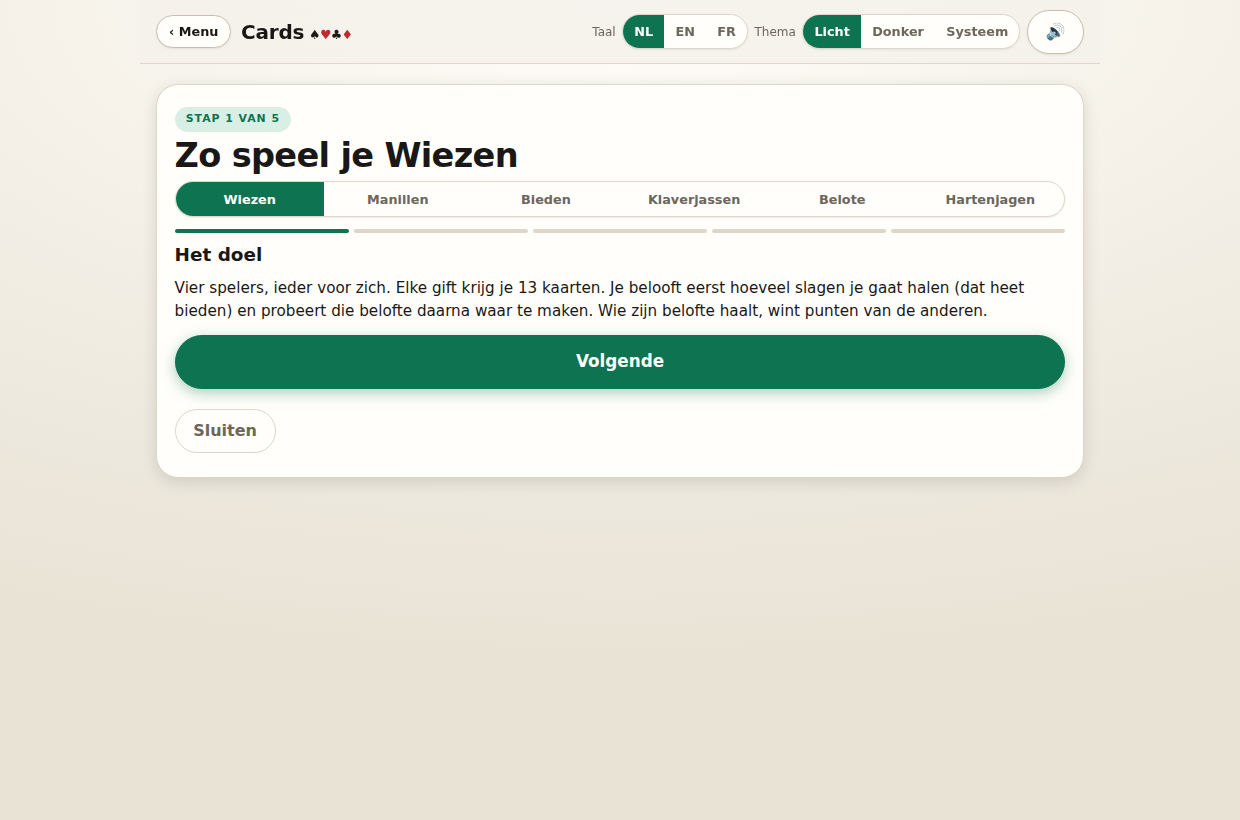
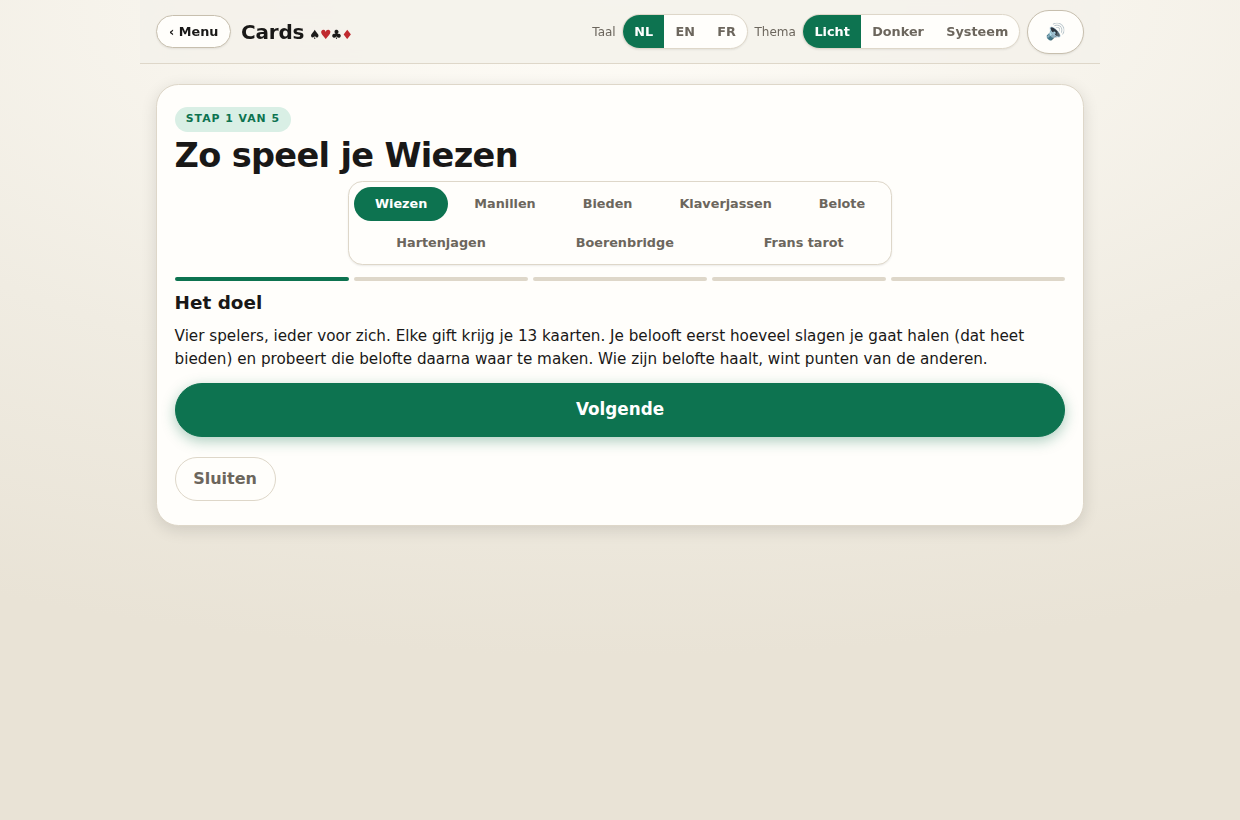
fix(cards): alle acht spellen in de starterswizard, uit één catalogus
Boerenbridge en tarot stonden niet in de spelkiezer van de wizard, dus je
kon die twee nergens leren. Twee oorzaken, allebei aangepakt.

1. De spellen werden op drie plaatsen apart opgesomd: de tegels op het
   startscherm, de lijst in de wizard, en de controle op het opgeslagen
   spel. Bij het toevoegen van boerenbridge en tarot bleef de wizardlijst
   achter. Er is nu één catalogus (src/games.ts) waar alle drie uit putten,
   en games.test.ts bewaakt dat elk spel een wizard, een gidshoofdstuk en
   teksten in nl/en/fr heeft.

2. Ook mét de volledige lijst paste die niet: het was één rij die niet
   afbrak, dus alles na het vijfde spel viel buiten beeld. De kiezer breekt
   nu af over meerdere regels (.seg.wrap) in plaats van af te snijden.

Browser-smoke op gsm-formaat: alle acht knoppen staan binnen het scherm en
elke knop opent de juiste wizard.

Claude-Session: https://claude.ai/code/session_01MgRtQzS8fjuh9rrNQPLfzZ

Changed region(s): [[0.1226, 0.2134, 0.8887, 0.6402]]

diff --git a/cards/src/main.ts b/cards/src/main.ts
@@ -26,6 +26,7 @@ import {
   type BotLevel,
 } from './bots';
 import * as store from './store';
+import { GAMES, isGameId, type GameId } from './games';
 import * as sbw from './scorebord-wiezen';
 import { strength, teamOf, type ManilleGift } from './engine/manille';
 import type { ManilleSession } from './engine/manille';
@@ -194,15 +195,6 @@ let generation = 0;
 const GAME_KEY = 'cards.game';
 const WIEZEN_OPTS_KEY = 'cards.wiezenOptions';
 const MANILLE_OPTS_KEY = 'cards.manilleOptions';
-type GameId =
-  | 'wiezen'
-  | 'manille'
-  | 'bieden'
-  | 'klaverjassen'
-  | 'belote'
-  | 'hartenjagen'
-  | 'boerenbridge'
-  | 'tarot';
 let game: GameId = 'wiezen';
 let hjSession: HartenSession | null = null;
 let hjPersisted: store.PersistedHarten | null = null;
@@ -804,16 +796,9 @@ function startScreen(): HTMLElement {
   const tiles = el('div', 'game-tiles');
   tiles.setAttribute('role', 'group');
   tiles.setAttribute('aria-label', t('game.picker'));
-  tiles.append(
-    gameTile('wiezen', '\u2660', 'game.wiezen', 'tile.wiezen'),
-    gameTile('manille', '\u2665', 'game.manillen', 'tile.manillen'),
-    gameTile('bieden', '\u2663', 'game.bieden', 'tile.bieden'),
-    gameTile('klaverjassen', '\u2666', 'game.klaverjassen', 'tile.klaverjassen'),
-    gameTile('belote', '\u{1F1EB}\u{1F1F7}', 'game.belote', 'tile.belote'),
-    gameTile('hartenjagen', '\u{1F494}', 'game.hartenjagen', 'tile.hartenjagen'),
-    gameTile('boerenbridge', '\u{1F3AF}', 'game.boerenbridge', 'tile.boerenbridge'),
-    gameTile('tarot', '\u{1F52E}', 'game.tarot', 'tile.tarot'),
-  );
+  for (const g of GAMES) {
+    tiles.append(gameTile(g.id, g.icon, g.nameKey as MessageKey, g.tileKey as MessageKey));
+  }
 
   // Tarot is het enige spel met een keuze in het aantal spelers (§1).
   if (game === 'tarot') main.append(tarotPlayerPicker());
@@ -1249,20 +1234,14 @@ function wizardScreen(): HTMLElement {
 
   // Je moest hiervoor eerst terug naar het startscherm om een ander spel te
   // leren; nu wissel je gewoon hier van spel.
-  const games: [GameId, MessageKey][] = [
-    ['wiezen', 'game.wiezen'],
-    ['manille', 'game.manillen'],
-    ['bieden', 'game.bieden'],
-    ['klaverjassen', 'game.klaverjassen'],
-    ['belote', 'game.belote'],
-    ['hartenjagen', 'game.hartenjagen'],
-  ];
-  const picker = el('div', 'seg wide');
+
+  const picker = el('div', 'seg wrap');
   picker.setAttribute('role', 'group');
   picker.setAttribute('aria-label', t('wizard.pickGame'));
-  for (const [id, key] of games) {
+  for (const g of GAMES) {
+    const id = g.id;
     picker.append(
-      segButton(t(key), game === id, () => {
+      segButton(t(g.nameKey as MessageKey), game === id, () => {
         game = id;
         try {
           localStorage.setItem(GAME_KEY, id);
@@ -4908,18 +4887,7 @@ try {
 }
 try {
   const storedGame = localStorage.getItem(GAME_KEY);
-  if (
-    storedGame === 'manille' ||
-    storedGame === 'wiezen' ||
-    storedGame === 'bieden' ||
-    storedGame === 'klaverjassen' ||
-    storedGame === 'belote' ||
-    storedGame === 'hartenjagen' ||
-    storedGame === 'boerenbridge' ||
-    storedGame === 'tarot'
-  ) {
-    game = storedGame;
-  }
+  if (isGameId(storedGame)) game = storedGame;
 } catch {
   /* ignore */
 }

diff --git a/cards/src/games.test.ts b/cards/src/games.test.ts
@@ -1,0 +1,81 @@
+import { describe, expect, it } from 'vitest';
+import { GAMES, GAME_IDS, isGameId, type GameId } from './games';
+import { WIZARD_STEPS } from './coach';
+import { chapterForGame, getChapter } from './guide';
+import nl from './i18n/locales/nl.json';
+import en from './i18n/locales/en.json';
+import fr from './i18n/locales/fr.json';
+
+/**
+ * Deze test bestaat om één concrete fout te vangen: boerenbridge en tarot waren
+ * wél te spelen maar stonden niet in de spelkiezer van de starterswizard, omdat
+ * die lijst apart werd bijgehouden. Alles hieronder hangt nu aan GAMES.
+ */
+describe('spelcatalogus', () => {
+  it('heeft geen dubbels', () => {
+    expect(new Set(GAME_IDS).size).toBe(GAME_IDS.length);
+  });
+
+  it('herkent alleen echte spel-ids', () => {
+    for (const id of GAME_IDS) expect(isGameId(id)).toBe(true);
+    expect(isGameId('poker')).toBe(false);
+    expect(isGameId(null)).toBe(false);
+  });
+
+  it('elk spel heeft een starterswizard', () => {
+    for (const id of GAME_IDS) {
+      expect(WIZARD_STEPS[id], `wizard ontbreekt voor ${id}`).toBeGreaterThan(0);
+    }
+    // En omgekeerd: geen wizard voor een spel dat niet in de catalogus staat.
+    expect(Object.keys(WIZARD_STEPS).sort()).toEqual([...GAME_IDS].sort());
+  });
+
+  it('elk spel wijst naar een bestaand gidshoofdstuk', () => {
+    for (const id of GAME_IDS) {
+      const chapter = chapterForGame(id, 'vlaams-standaard');
+      expect(getChapter(chapter), `gidshoofdstuk ontbreekt voor ${id}`).toBeDefined();
+    }
+    // Wiezen splitst in twee hoofdstukken, naargelang de gekozen ruleset.
+    expect(chapterForGame('wiezen', 'kleurenwiezen')).toBe('kleurenwiezen');
+    expect(chapterForGame('wiezen', 'vlaams-standaard')).toBe('gewoon-wiezen');
+  });
+
+  it('elk spel heeft een naam, een tegeltekst en wizardstappen in de drie talen', () => {
+    const bundles: [string, Record<string, string>][] = [
+      ['nl', nl as Record<string, string>],
+      ['en', en as Record<string, string>],
+      ['fr', fr as Record<string, string>],
+    ];
+    for (const game of GAMES) {
+      for (const [taal, bundle] of bundles) {
+        expect(bundle[game.nameKey], `${game.nameKey} ontbreekt in ${taal}`).toBeTruthy();
+        expect(bundle[game.tileKey], `${game.tileKey} ontbreekt in ${taal}`).toBeTruthy();
+        for (let n = 1; n <= WIZARD_STEPS[game.id]; n++) {
+          expect(
+            bundle[`wizard.${game.id}.${n}.title`],
+            `wizard.${game.id}.${n}.title ontbreekt in ${taal}`,
+          ).toBeTruthy();
+          expect(
+            bundle[`wizard.${game.id}.${n}.body`],
+            `wizard.${game.id}.${n}.body ontbreekt in ${taal}`,
+          ).toBeTruthy();
+        }
+      }
+      expect(game.icon.length).toBeGreaterThan(0);
+    }
+  });
+
+  it('bevat alle acht spellen, in de volgorde van het startscherm', () => {
+    const verwacht: GameId[] = [
+      'wiezen',
+      'manille',
+      'bieden',
+      'klaverjassen',
+      'belote',
+      'hartenjagen',
+      'boerenbridge',
+      'tarot',
+    ];
+    expect(GAME_IDS).toEqual(verwacht);
+  });
+});

diff --git a/cards/src/games.ts b/cards/src/games.ts
@@ -1,0 +1,59 @@
+// Eén catalogus van spellen, gedeeld door het startscherm, de starterswizard en
+// de regelgids.
+//
+// Waarom dit bestand bestaat: de spellen stonden op drie plaatsen apart
+// opgesomd, en bij het toevoegen van boerenbridge en tarot bleef de lijst in de
+// wizard achter — je kon die twee spellen dus nergens leren. Eén lijst, en
+// games.test.ts bewaakt dat elk spel overal geregistreerd is.
+
+export type GameId =
+  | 'wiezen'
+  | 'manille'
+  | 'bieden'
+  | 'klaverjassen'
+  | 'belote'
+  | 'hartenjagen'
+  | 'boerenbridge'
+  | 'tarot';
+
+export interface GameInfo {
+  id: GameId;
+  /** Icoon op de speltegel van het startscherm. */
+  icon: string;
+  /** i18n-sleutel voor de naam ('manille' heet in de teksten 'manillen'). */
+  nameKey: string;
+  /** i18n-sleutel voor de één-regelbeschrijving op de tegel. */
+  tileKey: string;
+}
+
+export const GAMES: GameInfo[] = [
+  { id: 'wiezen', icon: '♠', nameKey: 'game.wiezen', tileKey: 'tile.wiezen' },
+  { id: 'manille', icon: '♥', nameKey: 'game.manillen', tileKey: 'tile.manillen' },
+  { id: 'bieden', icon: '♣', nameKey: 'game.bieden', tileKey: 'tile.bieden' },
+  {
+    id: 'klaverjassen',
+    icon: '♦',
+    nameKey: 'game.klaverjassen',
+    tileKey: 'tile.klaverjassen',
+  },
+  { id: 'belote', icon: '\u{1F1EB}\u{1F1F7}', nameKey: 'game.belote', tileKey: 'tile.belote' },
+  {
+    id: 'hartenjagen',
+    icon: '\u{1F494}',
+    nameKey: 'game.hartenjagen',
+    tileKey: 'tile.hartenjagen',
+  },
+  {
+    id: 'boerenbridge',
+    icon: '\u{1F3AF}',
+    nameKey: 'game.boerenbridge',
+    tileKey: 'tile.boerenbridge',
+  },
+  { id: 'tarot', icon: '\u{1F52E}', nameKey: 'game.tarot', tileKey: 'tile.tarot' },
+];
+
+export const GAME_IDS: GameId[] = GAMES.map((g) => g.id);
+
+export function isGameId(value: unknown): value is GameId {
+  return typeof value === 'string' && (GAME_IDS as string[]).includes(value);
+}

diff --git a/cards/src/guide.ts b/cards/src/guide.ts
@@ -5,6 +5,8 @@
 // DOM-vrij en data-gedreven: dit bestand bepaalt enkel de structuur; de teksten
 // staan in i18n als `guide.<hoofdstuk>.<stap>.title` en `.body`.
 
+import type { GameId } from './games';
+
 /** Welke speltypes de gids behandelt; `basis` en `scorebord` gelden voor alles. */
 export type GuideChapterId =
   | 'basis'
@@ -70,18 +72,7 @@ export function getChapter(id: string): GuideChapter | undefined {
 }
 
 /** Het hoofdstuk dat bij het gekozen spel + ruleset hoort, voor de "lees verder"-knop. */
-export function chapterForGame(
-  game:
-    | 'wiezen'
-    | 'manille'
-    | 'bieden'
-    | 'klaverjassen'
-    | 'belote'
-    | 'hartenjagen'
-    | 'boerenbridge'
-    | 'tarot',
-  rulesetId: string,
-): GuideChapterId {
+export function chapterForGame(game: GameId, rulesetId: string): GuideChapterId {
   if (game === 'manille') return 'manillen';
   if (game === 'bieden') return 'bieden';
   if (game === 'klaverjassen') return 'klaverjassen';

diff --git a/cards/src/coach.ts b/cards/src/coach.ts
@@ -11,22 +11,13 @@ import type { KlaverjasGift } from './engine/klaverjassen';
 import type { HartenGift } from './engine/hartenjagen';
 import type { BoerenGift } from './engine/boerenbridge';
 import type { TarotGift } from './engine/tarot';
+import type { GameId } from './games';
 
 const COACH_KEY = 'cards.coach';
 
 /** Aantal stappen in de wizard, per spel (de teksten staan in i18n als
  *  `wizard.<spel>.<n>.title` / `.body`). */
-export const WIZARD_STEPS: Record<
-  | 'wiezen'
-  | 'manille'
-  | 'bieden'
-  | 'klaverjassen'
-  | 'belote'
-  | 'hartenjagen'
-  | 'boerenbridge'
-  | 'tarot',
-  number
-> = {
+export const WIZARD_STEPS: Record<GameId, number> = {
   wiezen: 5,
   manille: 4,
   bieden: 4,

diff --git a/cards/src/styles.css b/cards/src/styles.css
@@ -461,6 +461,24 @@ main.hero h1 {
   white-space: nowrap;
 }
 
+/* Acht spellen passen niet op één rij op een gsm: alles na het vijfde viel
+   buiten beeld. Deze variant breekt af in plaats van af te snijden. */
+.seg.wrap {
+  display: flex;
+  flex-wrap: wrap;
+  width: 100%;
+  gap: 0.3rem;
+  padding: 0.3rem;
+  border-radius: var(--radius);
+  overflow: visible;
+}
+
+.seg.wrap button {
+  flex: 1 1 auto;
+  white-space: nowrap;
+  border-radius: 999px;
+}
+
 .type-hint {
   margin: 0.35rem 0 0;
   font-size: 0.8rem;
